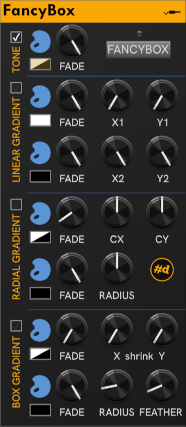
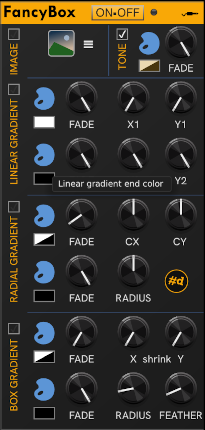
Add option for FancyBox effect retention after removal. Docs for FancyBox image

diff --git a/src/modules/FancyBox/FancyUi.cpp b/src/modules/FancyBox/FancyUi.cpp
@@ -34,7 +34,7 @@ FancyUi::FancyUi(Fancy* module) : my_module(module) {
     auto svg_theme = getThemeCache().getTheme(ThemeName(theme));
     auto panel = createSvgThemePanel<FancySvg>(&my_svgs, nullptr);
     if (my_module && !my_module->show_ports) {
-        panel->box.size.x = 165.f;
+        panel->box.size.x = 180.f;
     }
     auto layout = panel->svg;
     setPanel(panel);
@@ -284,6 +284,14 @@ FancyUi::FancyUi(Fancy* module) : my_module(module) {
 //         DEBUG("%s %d (%.3f,%.3f:%.3f,%.3f)", pos.first, static_cast<int>(pos.second.kind), RECT_ARGS(pos.second.widget->box));
 //     }
 // #endif
+}
+
+FancyUi::~FancyUi() {
+    if (my_module && my_cloak) {
+        if (!my_module->orphan_cloak) {
+            fancy_background(false);
+        }
+    }
 }
 
 void FancyUi::add_ports(::svg_query::BoundsIndex &bounds, std::shared_ptr<svg_theme::SvgTheme> svg_theme) {
@@ -705,6 +713,10 @@ void FancyUi::appendContextMenu(Menu* menu) {
             my_module->shouting = !my_module->shouting;
             shouting_buttons(my_module->shouting);
         }
+    ));
+    menu->addChild(createCheckMenuItem("Keep effects when removed", "",
+        [=](){ return my_module->orphan_cloak; },
+        [=](){ my_module->orphan_cloak = !my_module->orphan_cloak; }
     ));
     menu->addChild(createMenuLabel<FancyLabel>("theme"));
     AddThemeMenu(menu, this, theme_holder, false, false, false);

diff --git a/src/modules/FancyBox/Fancy.hpp b/src/modules/FancyBox/Fancy.hpp
@@ -117,6 +117,7 @@ struct Fancy : ThemeModule {
     bool fancy{false};
     bool show_ports{true};
     bool shouting{true};
+    bool orphan_cloak{false};
     CloakData fancy_data;
     std::string theme_name;
 
@@ -183,6 +184,7 @@ struct FancyUi : ModuleWidget, IThemeChange, ICloakBackgroundClient
     #endif
 
     FancyUi(Fancy* module);
+    ~FancyUi();
 
     TextButton* makeTextButton (
         std::map<std::string,::math::Rect>& bounds,
@@ -199,7 +201,7 @@ struct FancyUi : ModuleWidget, IThemeChange, ICloakBackgroundClient
     void add_input(::svg_query::BoundsIndex& bounds, const char* key, int id, PackedColor color);
     void add_ports(::svg_query::BoundsIndex& bounds, std::shared_ptr<svg_theme::SvgTheme> svg_theme);
     bool show_ports() { return my_module ? my_module->show_ports : true; }
-    bool ui_showing_ports() { return box.size.x > 165.f; }
+    bool ui_showing_ports() { return box.size.x > 180.f; }
     void remove_ports();
     void set_ports(bool ports);
     void toggle_ports();

diff --git a/src/modules/FancyBox/Fancy.cpp b/src/modules/FancyBox/Fancy.cpp
@@ -95,11 +95,13 @@ Fancy::Fancy() {
 
 json_t* Fancy::dataToJson() {
     if (other_fancy) return Base::dataToJson();
+
     json_t *root = Base::dataToJson();
     set_json(root, "fancy", fancy);
     set_json(root, "shouting", shouting);
     set_json(root, "show-ports", show_ports);
     set_json(root, "pic-folder", pic_folder);
+    set_json(root, "orphan-cloak", orphan_cloak);
     //
     // Serialize fancy_data not expressed as a Param
     //
@@ -131,6 +133,8 @@ void Fancy::dataFromJson(json_t* root) {
     fancy      = get_json_bool(root, "fancy", fancy);
     show_ports = get_json_bool(root, "show-ports", show_ports);
     pic_folder = get_json_string(root, "pic-folder");
+    orphan_cloak = get_json_bool(root, "orphan-cloak", orphan_cloak);
+
     //
     // Serialize fancy_data not expressed as a Param
     //

diff --git a/docs/FancyBox.md b/docs/FancyBox.md
@@ -7,12 +7,22 @@
 | ![FancyBox](./images/FancyBox.png) | ![FancyBox](./images/FancyBox-nojacks.png)|
 
 You can think of FancyBox as a twist on the legendary [DanT:Purfenator](https://library.vcvrack.com/DanTModules/Purfenator).
-FancyBox and Purfenator can even be used together, when properly configured.
+FancyBox and Purfenator can even be used together, when properly configured and placed in the patch in the right order.
+It's pretty fiddly to get the combination to work, becuase they both do intrusive things that Rack wasn't really designed for, but it's possible.
 
-FancyBox supports up to 4 layers, each with a simple graphic effect which can be animated.
+FancyBox supports up to 5 layers, the top 4 can be animated.
 Each additional layer appears on top of the others.
 
+When first added to Rack, only *TONE* is enabled, and the effect is not visible until you click the *ON•OFF* button.
+Click the check box above the vertical layer label to enable that layer.
+Except for the *Image* layer, all available options are on the panel.
+
 In order from bottom to top:
+
+- **Image** — A background image displayed below all modules and above the rails.
+
+  - Select from image formats supported by Rack.
+  - You can select the image directly from the panel by clicking the picture button or click the hamburger to open the Image options dialog box.
 
 - **Fill** — A simple color fill of the Rack window below the modules.
 
@@ -20,11 +30,11 @@ In order from bottom to top:
   - A transparent color can be used to tone the visible rails.
   - If you'd like to tone module panels also, check out **[Paneltone](./PanelTone.md#paneltone)**.
 
-- **Linear gradient** — A single linear gradient overlay.
+- **Linear gradient** — A single animatable linear gradient overlay.
 
-- **Radial gradient** — A single radial gradient overlay.
+- **Radial gradient** — A single animatable radial gradient overlay.
 
-- **Box gradient** — A single box gradient, which provides a nice vignetting effect.
+- **Box gradient** — A single animatable  box gradient, which provides a nice vignetting effect.
 
 These effects are all simple applications of nanovg operations.
 
@@ -35,7 +45,45 @@ Locations and lengths, like the ends of a linear gradient, or the center and rad
 
 If a static background is sufficient, you can take less space and collape the panel of input jacks by clicking the "plug" icon.
 But if any cables are connected, you can't close the jack panel. You don't want to damage your plugs!
-If you decide you want to animate the background effects, expand the panel and plug in some modulation signals.
+If you decide you want to animate the background effects, expand the panel and plug in some modulation.
+
+A fast and full range signaal can generate exaggerated and flashing effects.
+A bipolar signal with a limited range provides more tasteful results, so when using an LFO, set it to bipolar mode and use an attenuator (VCA) to limit it's range.
+In this usage, you may want to set the other parameters to be somewhere in the middle range, so that the modulation isn't clipped at the end of the range for a parameter (unless you _want_ that effect :-).
+
+## FancyBox Image options
+
+Click the hamburger for more Image options.
+
+![FancyBox Image options](./images/FancyBox-image-dialog.png)
+
+- Click the *Open image* picture button to select an image file.
+
+- The *Gray* check box next to the image button will convert the image to luminance grayscale for display. This is particularly effective combined with with the *TONE* layer.
+
+- The *Image fitting* switch provides 4 options for fitting the image:
+
+  - *Cover* (default) — The image is scaled just enough to cover the background.
+  - *Fit* — The image is centered and scaled to fit within the Rack window.
+  - *Stretch* — The image is stretched to fill the window. This changes the proportions of the image, which can work nicely for abstract graphics or images, but doesn't work as well for photos.
+  - *Scale*  — The image is scaled according to the *Scale* knob on the right.
+
+- The X and Y knobs provide a positive or negative offset to fine-tune the position of the image after scaling.
+  Units are in percentage of the image size for the corresponding dimension.
+
+- The *Scale* klnob provides the scaling factor when *image fitting* is *Scale*.*
+
+## Keep the background after removing FancyBox
+
+FancyBox supports leaving static background in place after FancyBox is removed from the patch.
+This is unusual for Rack module, but allows you to set up a specific look for recording or performance, and not have FancyBox cluttering your patch.
+
+To enable retaining background effects after FancyBox is removed, toggle *Keep effects when removed* in the module menu.
+
+You can FancyBox back and toggle the effects off or revert the patch to go back.
+When this is enabled and you delete FancyBox, all the settings are lost when the patch is unloaded, so if you want to use this workflow, you can save a Preset to apply the same settings in the future.
+
+You can always just move FancyBox off screen, but this isn't always what you'd like for recording or performance.
 
 ## The One and only
 

diff --git a/README.md b/README.md
@@ -6,7 +6,7 @@ The first VCV Rack plugin for pachde (#d).
 
 All pachde-One modules have Light, Dark, and High Contrast themes, and allow you to choose whether to follow the Rack UI theme or the _Use dark panels_ option.
 Right click to choose a theme and tracking option.
-If you want all the #d one modules to use a consistent theme, you can send the theme to all the peers in the patch at the time.
+If you want all the #d one modules to use a consistent theme, you can send the theme to all the peer pachde1 modules in the patch.
 
 #d One modules also come with caps on the screws for an elegant look.
 All screws are removable if you're more relaxed about your Rack and not worried about the panels falling out.
@@ -20,14 +20,14 @@ All screws are removable if you're more relaxed about your Rack and not worried 
 
 ## Innovative ? user interface
 
-This update of **#d One** brings a number of possible innovations for a Rack module UIs.
+The 2.3 update of **#d One** brings a number of possible innovations for a Rack module UIs.
 Most of these certainly depart from a strict hardware metaphor, which some may not prefer.
 Rack and it's modules themselves already depart from a strict hardware metaphor when convenient.
-No Eurorack hardware has a right click menu for the module, or it's knobs or switches.
+For example, no Eurorack hardware has a right click menu for the module, or it's knobs or switches.
 
 Here are some notable thigns to see in the **#d One** implementation.
-As soon as I've submitted **#d One 2.3** to the Rack library,
-I'll be updating the **[Rack dev notes (by pachde #d)](https://github.com/Paul-Dempsey/rack-dev-notes/blob/main/doc/index.md#dev-notes-for-vcv-rack)** with documentation, examples, and free-to-use reusable code for all of these (?) innovations:
+
+**[Rack dev notes (by pachde #d)](https://github.com/Paul-Dempsey/rack-dev-notes/blob/main/doc/index.md#dev-notes-for-vcv-rack)** will get udpates with documentation, examples, and free-to-use reusable code for all of these (?) innovations:
 
 - Hamburger menus —
   These provide context-sensitive menus appropriate for specific parts of a module,
@@ -38,8 +38,8 @@ I'll be updating the **[Rack dev notes (by pachde #d)](https://github.com/Paul-D
   Instead of hunting for the right extender in the module browser, just expand the panel to show an extension with more jacks or options.
   Recently I noticed another brand that provides buttons to insert selected extenders, which I think is a great idea.
 
-- Dialogs (**Info**) — Another tactic for making complex configurable easier than piling things into the module menu.
-  Turns out that making a dialog is really no more complicated or substantially different than creating the UI for a module.
+- Dialogs (**Info**, **FancyBox**) — Another tactic for making complex configurable easier than piling things into the module menu.
+  Turns out that making a dialog is really no more complicated or substantially different than creating a menu or the UI for a module.
   **#d One** constructs dialogs much like a module widget, with an SVG base.
   All the amenities mentioned below for iterating on a (themed) panel apply just the same
 
@@ -93,7 +93,10 @@ At this time, pull requests are accepted only from forks. GitHub makes it super 
 
 - Andrew Belt for creating VCV Rack
 - cosinekitty (Don Cross) for showing me how to get Github Actions working in my repo to build all the versions (including Mac ARM aka M1).
+- plus Gotno, and Bloodbat for the essential components that make all those cross-builds possible.
 - baconpaul for sharing improvements in the Github Actions, and other Rack inspiration.
+- Venom (Dave Benham) for great feedback, requests, bug reporting, and all-round good Rack citizen.
+- everyone who's beta-tested, reported issues, and given feedback - those make it all possible.
 
 ## What else?
 
@@ -105,7 +108,9 @@ I have a couple of other repos for VCV Rack-related projects you may be interest
 - **[Rack dev notes (by pachde #d)](https://github.com/Paul-Dempsey/rack-dev-notes/blob/main/doc/index.md#dev-notes-for-vcv-rack)**.
   A growing set of tech notes for creating and maintaining VCV Rack plugins.
 
-- **[#d CHEM](https://github.com/Paul-Dempsey/pachde-CHEM?tab=readme-ov-file#pachde-chem)** Controller for the Haken EaganMatrix. 16 modules for working with EaganMatrix devices, including Haken Continuum, ContinuuMini, EM Micro, and EaganMatrix Eurorack Module, and the Osmose from Expressive E.
+- **[#d CHEM](https://github.com/Paul-Dempsey/pachde-CHEM?tab=readme-ov-file#pachde-chem)**
+  Controller for the Haken EaganMatrix. 16 modules for working with EaganMatrix devices, including Haken Continuum, ContinuuMini, EM Micro, and the EaganMatrix Eurorack Module.
+  Also, the Osmose from Expressive E.
 
 ---
 ![pachde logo](docs/Logo.svg)

diff --git a/CHANGELOG.md b/CHANGELOG.md
@@ -1,5 +1,11 @@
 # Pachde One Change Log
 
+## Version 2.4
+
+- FancyBox gets an image background, with a configuration dialog (and grows by 1hp to make room).
+
+- Various bug fixes and improvements from user's feedback.
+
 ## Version 2.3
 
 - ***New Modules*** — [FancyBox](docs/FancyBox#fancybox), [Skiff](docs/Skiff.md#skiff), [Paneltone](docs/Paneltone.md#paneltone), [Rui](docs/Rui.md#rui), [Guide](docs/Guide.md#guide)
